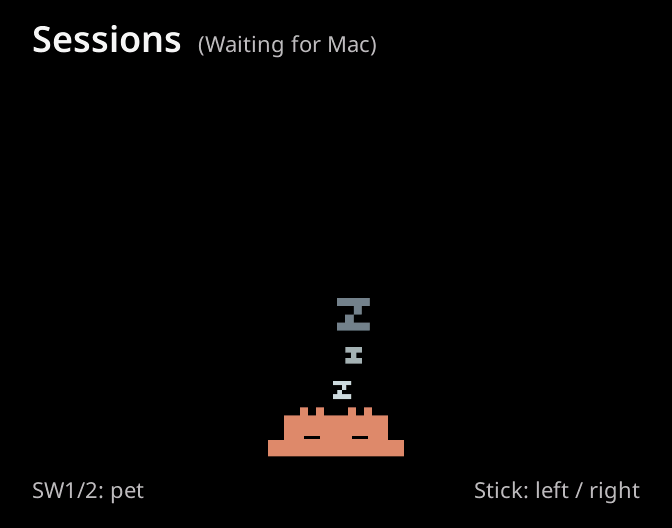
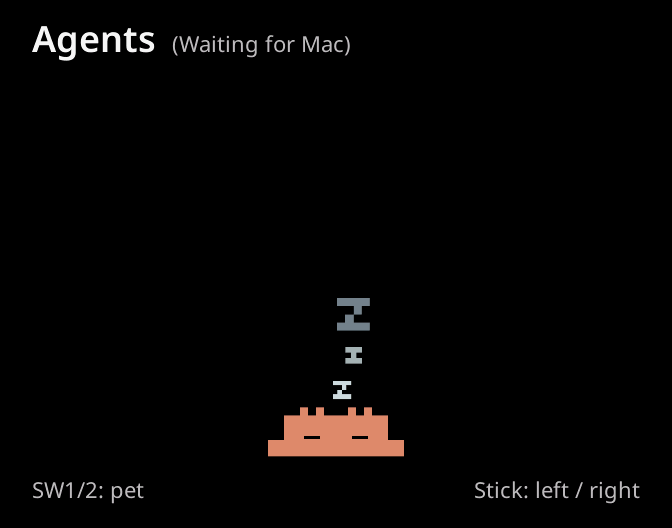
feat(firmware): rename Sessions app to Agents

Changed region(s): [[0.0312, 0.0303, 0.5625, 0.1212]]

diff --git a/firmware/main/app_runtime.c b/firmware/main/app_runtime.c
@@ -16,7 +16,7 @@ static void mouse_app_button(app_runtime_t *runtime, unsigned button, bool press
 
 /* Apps are built into the firmware. Only the active app has a runtime. */
 static const app_definition_t apps[CLAWDOCK_APP_COUNT] = {
-    [CLAWDOCK_CODEX_APP] = { .name = "SESSIONS", .title = "Sessions" },
+    [CLAWDOCK_CODEX_APP] = { .name = "AGENTS", .title = "Agents" },
     [CLAWDOCK_MOUSE_APP] = { .name = "MOUSE", .title = "Mouse", .button = mouse_app_button },
     [CLAWDOCK_INPUT_APP] = { .name = "INPUT LAB", .title = "Input Lab" },
     [CLAWDOCK_CLAWD_APP] = { .name = "CLAWD", .title = "Clawd" },

diff --git a/firmware/README.md b/firmware/README.md
@@ -4,8 +4,8 @@
 
 ## 应用切换
 
-1. 设备开机进入 `SESSIONS`。同时按住 SW1、SW2、SW3 打开应用选择器。
-2. 保持三个键按下，用摇杆上下选择。列表顺序为 `SESSIONS`、`MOUSE`、`INPUT LAB`、`CLAWD`，首尾循环。每次移动后先让摇杆回中。
+1. 设备开机进入 `Agents`。同时按住 SW1、SW2、SW3 打开应用选择器。
+2. 保持三个键按下，用摇杆上下选择。列表顺序为 `Agents`、`Mouse`、`Input Lab`、`Clawd`，首尾循环。每次移动后先让摇杆回中。
 3. 松开全部三个键，切换到所选应用。切换后抬起触点、释放按键并让摇杆回中，即可开始操作。选回当前应用会继续原状态。
 
 三键并击识别窗口约 180 ms，从第一个 SW 键消抖后开始。确认三个键均按下时立即打开选择器，这次并击由选择器处理。未形成并击时，缓存的事件按顺序交给当前应用。选择器打开期间，应用输入和诊断输出暂停。
@@ -27,11 +27,11 @@
 | SW1、SW2 | 摸摸 Clawd，睡着时也能叫醒 |
 | 摇杆左右 | 控制 Clawd，回中后恢复巡游 |
 
-首次收到会话数据前，页头显示 `Sessions (Waiting for Mac)`。同步后超过 8 秒未收到会话数据，页头显示 `Sessions (Mac is offline)`。这时继续显示上次的会话列表、选中项和已显示的详情页，运行中的蓝色点阵停在掉线时的那一帧。收到有效新数据后更新画面，仍在运行的会话恢复动画。等待连接和掉线时也可以用按键和摇杆与 Clawd 互动。[掉线界面预览](../docs/screenshots/sessions-offline.png)
+首次收到会话数据前，页头显示 `Agents (Waiting for Mac)`。同步后超过 8 秒未收到会话数据，页头显示 `Agents (Mac is offline)`。这时继续显示上次的会话列表、选中项和已显示的详情页，运行中的蓝色点阵停在掉线时的那一帧。收到有效新数据后更新画面，仍在运行的会话恢复动画。等待连接和掉线时也可以用按键和摇杆与 Clawd 互动。[掉线界面预览](../docs/screenshots/sessions-offline.png)
 
-会话来源暂时不可用时，页头显示 `Sessions (Sources unavailable)`，已有列表也会保留。同步成功且列表为空时，Clawd 会到画面底部中央打盹。
+会话来源暂时不可用时，页头显示 `Agents (Sources unavailable)`，已有列表也会保留。同步成功且列表为空时，Clawd 会到画面底部中央打盹。
 
-Clawd 以桌宠页一半的尺寸在 Sessions 底部巡游，常态宽约 120 像素。它随机走约 1.8–3.6 秒，停下呼吸约 2–3.2 秒，有时会在停歇后掉头，到两端也会停歇。角色和道具可能遮住部分卡片内容。走路范围从左侧 32 px 页面边距到屏幕右侧，较宽的动作会在边缘向内调整。
+Clawd 以桌宠页一半的尺寸在 Agents 底部巡游，常态宽约 120 像素。它随机走约 1.8–3.6 秒，停下呼吸约 2–3.2 秒，有时会在停歇后掉头，到两端也会停歇。角色和道具可能遮住部分卡片内容。走路范围从左侧 32 px 页面边距到屏幕右侧，较宽的动作会在边缘向内调整。
 
 会话进入运行、完成、失败或取消时各有偏好的随机动作。手动互动从全部 8 个动作中选取，与会话事件共享最近两次的动作记录。移动时按 SW1 或 SW2，摇杆回中后播放动作。表演结束后，有运行中的会话时 Clawd 会继续巡游，否则走到画面底部中央打盹。[会话与桌宠验证记录](../experiments/2026-11-18-clawd-sessions.md)
 
@@ -122,7 +122,7 @@ cc -std=c11 -Wall -Wextra -Werror -Ifirmware/main firmware/tests/touch_format_te
 
 设备画布为纯黑，面板和正文采用灰阶，橙色用于小面积交互反馈。左侧 32 px 页面边距抵消设备两侧硬件黑边的宽度差。应用选择器和会话列表共用焦点行，各页面共用标题和操作提示。固件英文标签使用嵌入的 Noto Sans 22、27、36 px 抗锯齿字形，会话标题和回复由 Mac 渲染。[界面样式定义](main/app_ui_theme.h)
 
-Clawd 帧按设备显示尺寸生成，常态角色宽约 240 px，采用共用脚底锚点、4 位透明度和逐帧压缩。Sessions 中以一半尺寸绘制。常规构建直接使用预生成的字形和动画数据。更新时用 Pillow 11.3.0 生成字形，动画另需 Playwright 1.59.0。在仓库根目录运行：
+Clawd 帧按设备显示尺寸生成，常态角色宽约 240 px，采用共用脚底锚点、4 位透明度和逐帧压缩。Agents 中以一半尺寸绘制。常规构建直接使用预生成的字形和动画数据。更新时用 Pillow 11.3.0 生成字形，动画另需 Playwright 1.59.0。在仓库根目录运行：
 
 ```sh
 python3 firmware/scripts/build_ui_font.py /path/to/NotoSans.ttf firmware/main/app_ui_font.bin

diff --git a/README.md b/README.md
@@ -6,18 +6,18 @@ ClawDock 是基于 HachimoDock 和 ESP32-P4 的实体桌宠。Clawd 会随编程
 
 预览使用固件渲染器的原始配色，四周留白按文档展示调整。实机显示对 Clawd 的主体橙色做了屏幕补偿。会话内容和输入状态使用示例数据。
 
-**会话列表与详情**
+**Agents 会话列表与详情**
 
 <p>
-  <a href="docs/screenshots/sessions.png"><img src="docs/screenshots/sessions.png" width="49%" alt="Sessions 列表显示三张会话卡片，Clawd 在右下角吃饼干"></a>
+  <a href="docs/screenshots/sessions.png"><img src="docs/screenshots/sessions.png" width="49%" alt="Agents 列表显示三张会话卡片，Clawd 在右下角吃饼干"></a>
   <a href="docs/screenshots/session-detail.png"><img src="docs/screenshots/session-detail.png" width="49%" alt="按 SW3 展开选中的会话卡片，显示八行正文和页码，Clawd 举起灯泡"></a>
 </p>
 
 **掉线与等待连接**
 
 <p>
-  <a href="docs/screenshots/sessions-offline.png"><img src="docs/screenshots/sessions-offline.png" width="49%" alt="Sessions 页头显示 Mac is offline，保留三张会话卡片，Clawd 戴着耳机"></a>
-  <a href="docs/screenshots/sessions-waiting.png"><img src="docs/screenshots/sessions-waiting.png" width="49%" alt="Sessions 页头显示 Waiting for Mac，Clawd 在底部中央打盹"></a>
+  <a href="docs/screenshots/sessions-offline.png"><img src="docs/screenshots/sessions-offline.png" width="49%" alt="Agents 页头显示 Mac is offline，保留三张会话卡片，Clawd 戴着耳机"></a>
+  <a href="docs/screenshots/sessions-waiting.png"><img src="docs/screenshots/sessions-waiting.png" width="49%" alt="Agents 页头显示 Waiting for Mac，Clawd 在底部中央打盹"></a>
 </p>
 
 **Clawd 桌宠与应用选择器**
@@ -36,7 +36,7 @@ ClawDock 是基于 HachimoDock 和 ESP32-P4 的实体桌宠。Clawd 会随编程
 
 ## 快速开始
 
-运行 ClawDock 固件的设备开机进入 `SESSIONS`。同时按住 SW1、SW2、SW3 打开应用选择器，用摇杆上下选择，松开三个键后切换应用。
+运行 ClawDock 固件的设备开机进入 `Agents`。同时按住 SW1、SW2、SW3 打开应用选择器，用摇杆上下选择，松开三个键后切换应用。
 
 通过 CH343 USB-UART 将设备连接到 Mac，在仓库根目录运行以下命令。菜单栏应用负责会话同步、鼠标桥接和 Clawd 校时。
 

diff --git a/host/README.md b/host/README.md
@@ -22,7 +22,7 @@ host/start-mouse-bridge.sh
 
 ## 会话监看
 
-在 ClawDock 菜单中勾选“启用会话监看”，设备端进入 `SESSIONS`。ClawDock 合并 Codex、OpenCode、Claude Code 和 Pi 的本机会话，使用会话原有标题。运行中的会话优先，ClawDock 观察到的已结束轮次保留 60 秒。Mac 将标题和最近一条可见回复渲染为位图，回复保留约 2400 个字符。预览和详情正文统一使用 27 px，详情最多 24 页，每页最多 8 行。会话监看无需辅助功能授权。[设备端操作](../firmware/README.md#会话监看)
+在 ClawDock 菜单中勾选“启用会话监看”，然后在设备端进入 `Agents`。ClawDock 合并 Codex、OpenCode、Claude Code 和 Pi 的本机会话，使用会话原有标题。运行中的会话优先，ClawDock 观察到的已结束轮次保留 60 秒。Mac 将标题和最近一条可见回复渲染为位图，回复保留约 2400 个字符。预览和详情正文统一使用 27 px，详情最多 24 页，每页最多 8 行。会话监看无需辅助功能授权。[设备端操作](../firmware/README.md#会话监看)
 
 - **Codex** 自动读取 `~/.codex/sessions` 和 `session_index.jsonl`，也支持启动环境中的 `CODEX_HOME`。标题索引缺失时显示项目目录名。运行记录超过 10 分钟没有新状态信号会退出列表。
 - **OpenCode 2.x** 自动发现 `~/.local/state/opencode/service.json` 注册的本机服务，也支持启动环境中的 `XDG_STATE_HOME`。通过服务的只读会话 API 获取状态和回复。默认共享服务内的会话可以显示。以 `--standalone` 启动的独立服务超出这一发现范围。 [OpenCode API](https://opencode.ai/docs/api)
